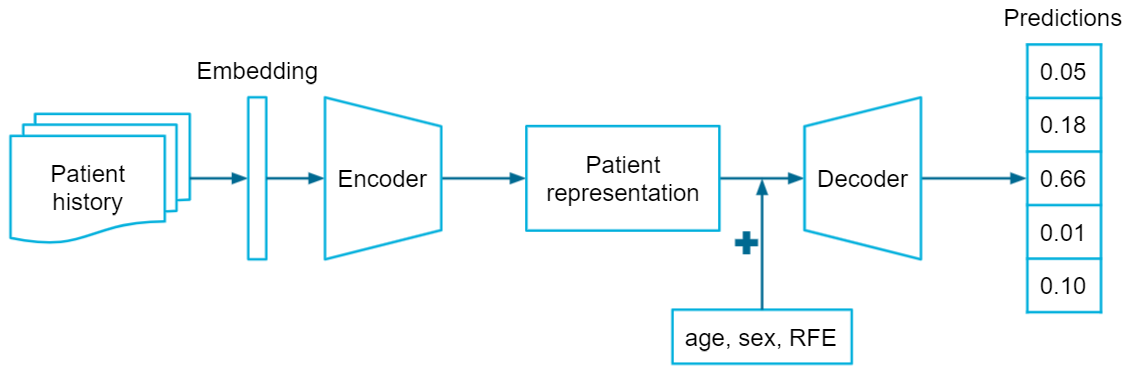
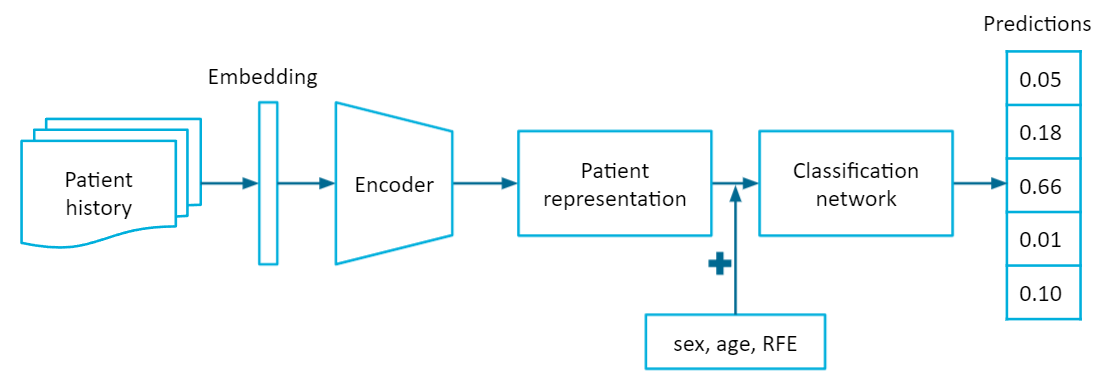
Update project page gp_diagnoses_richardli.md (#400)

Changed region(s): [[0.0, 0.1189, 0.9855, 1.0], [0.8623, 0.0297, 1.0, 0.0892]]

diff --git a/content/pages/projects/gp_diagnoses_richardli.md b/content/pages/projects/gp_diagnoses_richardli.md
@@ -1,45 +1,65 @@
-title: Diagnosis Prediction in General Practice: The Importance of Temporality in EPRs
+title: Machine Learning with Electronic Patient Records for Diagnosis Prediction in General Practice
 groups: ai-for-health
 finished: false
 type: student
 picture: vacancies/gp_diagnoses.png
 template: project-single
-people: Richard Li, Noud Emonts, Kees van Boven, Michael Ricking, Henk Schers, Hans Peters, Tim Olde Hartman, Hilde Luijks, Annemarie Uijen, Tom Heskes
+people: Richard Li, Kees van Boven, Michael Ricking, Henk Schers, Tom Heskes, Noud Emonts
 description: Development of a model to determine probable diagnoses for common reasons to visit a General Practitioner.
 
 **Start date: 22-03-2021** <br>
 **End date: 22-09-2021**
+
 
 ## Clinical Problem 
 General practitioners (GPs) work with probabilities of diagnoses to head their diagnostic and therapeutic decisions. To a large extent, this is an implicit process, controlled by prior knowledge and so-called pattern recognition. Less is known about the concreteness and preciseness of the used probabilities. Uncertainty may lead to an overestimation of the probability of a rare disease, and thus lead to overuse of diagnostic facilities, unnecessary costs, and ultimately patient harm. Underestimating probabilities may lead to late diagnoses and detrimental consequences. The process of coming to a diagnosis starts when the patient tells his first complaint. This first utterance of a complaint during the consultation is called reason for encounter (RFE; for example cough, back pain, headache). The RFE itself is related to probabilities of diagnoses. 
 
 For common reasons to visit a doctor, context variables influence probabilities of diagnoses. Deepening of our understanding of how diversity, context, multimorbidity and symptoms influence probabilities of final diagnoses will help doctors to work more secure and evidence based. It will lead to the development of a diagnostic support tool to use in everyday practice. 
 
-## Solution
-We aim to analyze how GPs can be supported in early diagnosis through AI support. For all patients with new episodes (2010-2020) we want to define the predictive value of the RFE for diagnoses. More specifically we want to study which data influence predictive values. This knowledge is crucial to build ICT tools to support the GP.
-
-We will use machine learning to calculate probabilities of diagnoses based on the reason for encounter, modified for other personal and context variables, based on the data in our database. For 15 common reasons to visit the GP, we want to develop an algorithm that is able to show a physician realtime for any unique patient the probabilities of diagnoses.
 
 ## Data
-We will use data from the research network FaMeNet (www.famenet.nl) covering over 300.000 patient years, and over 1 million patient contacts. Structured data on contextual factors are available for more than 50% of the adult population. Contextual factors include chronic comorbidity, sex, age, ethnicity, educational level, and all symptoms and diagnoses in the two years preceding the diagnosis.
+In this project we used data from the research network [FaMeNet](https://www.famenet.nl). More specifically, TransHis was used, which is an Electronic Patient Record for primary care. The [International Classification of Primary Care](https://www.who.int/standards/classifications/other-classifications/international-classification-of-primary-care) (ICPC) is used in the EPR to encode various information such as the RFE, diagnoses, interventions, and referrals. The EPR promotes an Episode of Care structure, where episodes group patient visits that pertain to the same health problem according to the GP.
 
-The data are stored in a data warehouse at the department of Primary and Community care of the Radboud University Nijmegen Medical Center (Radboud Technology Center Health Data). 
+![Episode of Care]({{ IMGURL }}/images/projects/gp_diagnoses_rl_episode.png)
 
-We will only consider patients that have had at least one episode starting with one of the top 15 RFEs. Our dataset consists of data points that describe the first contact in an episode (with a top 15 RFE). Each data point has the following information: RFE, age, sex, start date, and diagnosis. Importantly, we will augment each data point in the dataset with information from the patient's medical history up to the start date of the current episode to predict. In this way, we take into account the contextual factors, and in a sense can provide personalized care. Note that patients can appear multiple times in our dataset with different episodes, and because episodes usually start on different dates, the patient history can vary for the same patient although the histories of course partially overlap.
+A dataset was created by extracting new episodes (2010-2020) starting with one of the top 15 RFEs for which we wanted to predict the final diagnosis of an episode. The dataset consists of records that describe the first visit of a new episode. The complete dataset contains 143,818 visits from 35,754 patients after preprocessing. Furthermore, historical patient visits (2005-2020) were available in the EPR to be used as contextual information.
 
-## Approach
-The patient history will be a sequence of episodes, where each episode consists of a set of associated ICPC codes. We will learn a latent representation of the patient history through sequence learning with a recurrent neural network (RNN). An RNN is well-suited for sequence learning, and has already been extensively used on similar tasks with Electronic Health Records (EHRs). The model will have an encoder-decoder architecture, where the encoder will be an RNN and the decoder a multilayer perceptron (MLP). The patient history goes into the encoder and the encoder will output a latent patient representation. The latent patient representation together with the RFE, age, and sex will then go into the decoder, which will output the probabilities of diagnoses.
+
+## Methods
+Contextual variables were taken into account by incorporating information from the EPR. A patient's medical history was extracted from the EPR to serve as contextual information. We proposed to represent the patient history as a sequence of episodes, where episodes group related patient visits. A recurrent neural network (RNN) was used to handle the sequential patient history. The RNN encodes the patient history into a latent patient representation, which a classification network uses as a feature vector together with information from the current visit (sex, age, RFE) to predict the probabilities of diagnoses for the current visit.
 
 ![Model architecture]({{ IMGURL }}/images/projects/gp_diagnoses_rl_model.png)
 
-Additionally, we will investigate the importance of modelling time in the input and/or model. Of particular interest is irregular time, RNNs expect constant time or equally-spaced gaps between points in a sequence, however this does not hold in our patient history. Episodes happen irregularly in time, where some episodes happen only shortly after one another or otherwise can have long periods between them. We will experiment with four conditions based on varying levels of time assumptions:
+The RNN-based model was compared to a conditional probability baseline for which the conditional probabilities were computed by `P(diagnosis | sex, age, RFE)` from the data. The conditional probability baseline reflects the current situation in general practice the most in terms of a diagnostic support tool. The other three baselines were logistic regression (LR), XGBoost (XGB), and a multilayer perceptron (MLP), where the patient history is represented by a one-hot vector instead of a sequence.
 
-1. **None**: patient history is represented without retaining the order of episodes and the time between them.
-2. **Weak**: patient history is represented as an ordered sequence of episodes, but the time between them is unspecified.
-3. **Moderate**: patient history is represented as an ordered sequence of episodes, and each episode is provided with a time interval feature, which indicates the time since the previous episode.
-4. **Strong**: patient history is represented as an ordered sequence of episodes, and each episode is provided with a time interval feature, which indicates the time since the previous episode, and the encoder specifically handles irregular time in the sequence.
+We further investigated the relevance of time irregularity in the episodic patient history. We considered four conditions with different time assumptions:
+
+1. *None* (MLP): the patient history is represented without retaining the order of episodes and the time between them.
+2. *Weak* (LSTM): the patient history is represented as an ordered sequence of episodes, but the time between them is unspecified.
+3. *Moderate* (LSTM+∆t): the patient history is represented as an ordered sequence of episodes, and each episode is provided with a time interval feature, which indicates the time since the previous episode.
+4. *Strong* (T-LSTM): the patient history is represented as an ordered sequence of episodes, and each episode is provided with a time interval feature, which indicates the time since the previous episode, and the encoder specifically handles irregular time in the sequence.
+
+Condition 1 corresponds to the MLP baseline. Conditions 2 to 4 use the RNN-based model, but the encoder varies. Condition 2 and 3 use an LSTM encoder, whereas condition 4 uses a [time-aware LSTM](https://dl.acm.org/doi/10.1145/3097983.3097997)  or T-LSTM for short.
 
 
+## Results
+
+|                 | Micro F1   | Macro F1   | Weighted F1 | Acc@3      | Acc@10     | Brier Score | Log Loss   |
+|-----------------|------------|------------|-------------|------------|------------|-------------|------------|
+| CP              | 0.3917     | 0.0496     | 0.2888      | 0.6729     | 0.8761     | 0.7551      | 2.8868     |
+| LR              | 0.3835     | 0.0605     | 0.3172      | 0.6667     | 0.8678     | 0.7644      | 2.3278     |
+| XGB             | **0.3979** | **0.0645** | **0.3239**  | **0.6809** | 0.8815     | **0.7480**  | 2.1897     |
+| MLP             | 0.3902     | 0.0490     | 0.3020      | 0.6733     | 0.8801     | 0.7530      | 2.1969     |
+| LSTM            | 0.3940     | 0.0544     | 0.3082      | 0.6795     | **0.8821** | 0.7521      | **2.1790** |
+| LSTM+∆t         | 0.3974     | 0.0521     | 0.3098      | 0.6798     | 0.8813     | 0.7530      | 2.1833     |
+| T-LSTM          | 0.3917     | 0.0472     | 0.2880      | 0.6701     | 0.8794     | 0.7548      | 2.1878     |
+
+LSTM performed the best in probabilistic prediction as it achieved the best log loss. XGB performed the best overall in terms of F1-score and accuracy at *k*. Note that a lower log loss is not necessarily paired with an increase in F1-score or accuracy at *k*. 
+Accounting for time irregularity in the episodic patient history does not seem to matter much here as LSTM+∆t and T-LSTM either perform comparably to or worse than LSTM.
+All models performed very poorly on macro F1-score due to the large class imbalance of diagnoses.
 
 
+## Conclusion
+We developed a deep learning model that can perform probabilistic prediction of diagnoses for the top 15 most frequent RFEs. Including contextual information from EPRs resulted in improved probabilistic performance and accuracy. Although the increase in performance is rather modest, the superior performance does show that the EPR is beneficial for diagnosis prediction in combination with machine learning and warrants further research. Future work should also focus on how to provide better interpretability for these deep learning models to GPs, and how to properly integrate such models into a clinical decision support system.
 
+The final report can be found [here](https://drive.google.com/file/d/1BTd11MKYH4Ho5tPUMf5TIe2vAEfXCSkd/view?usp=sharing).
